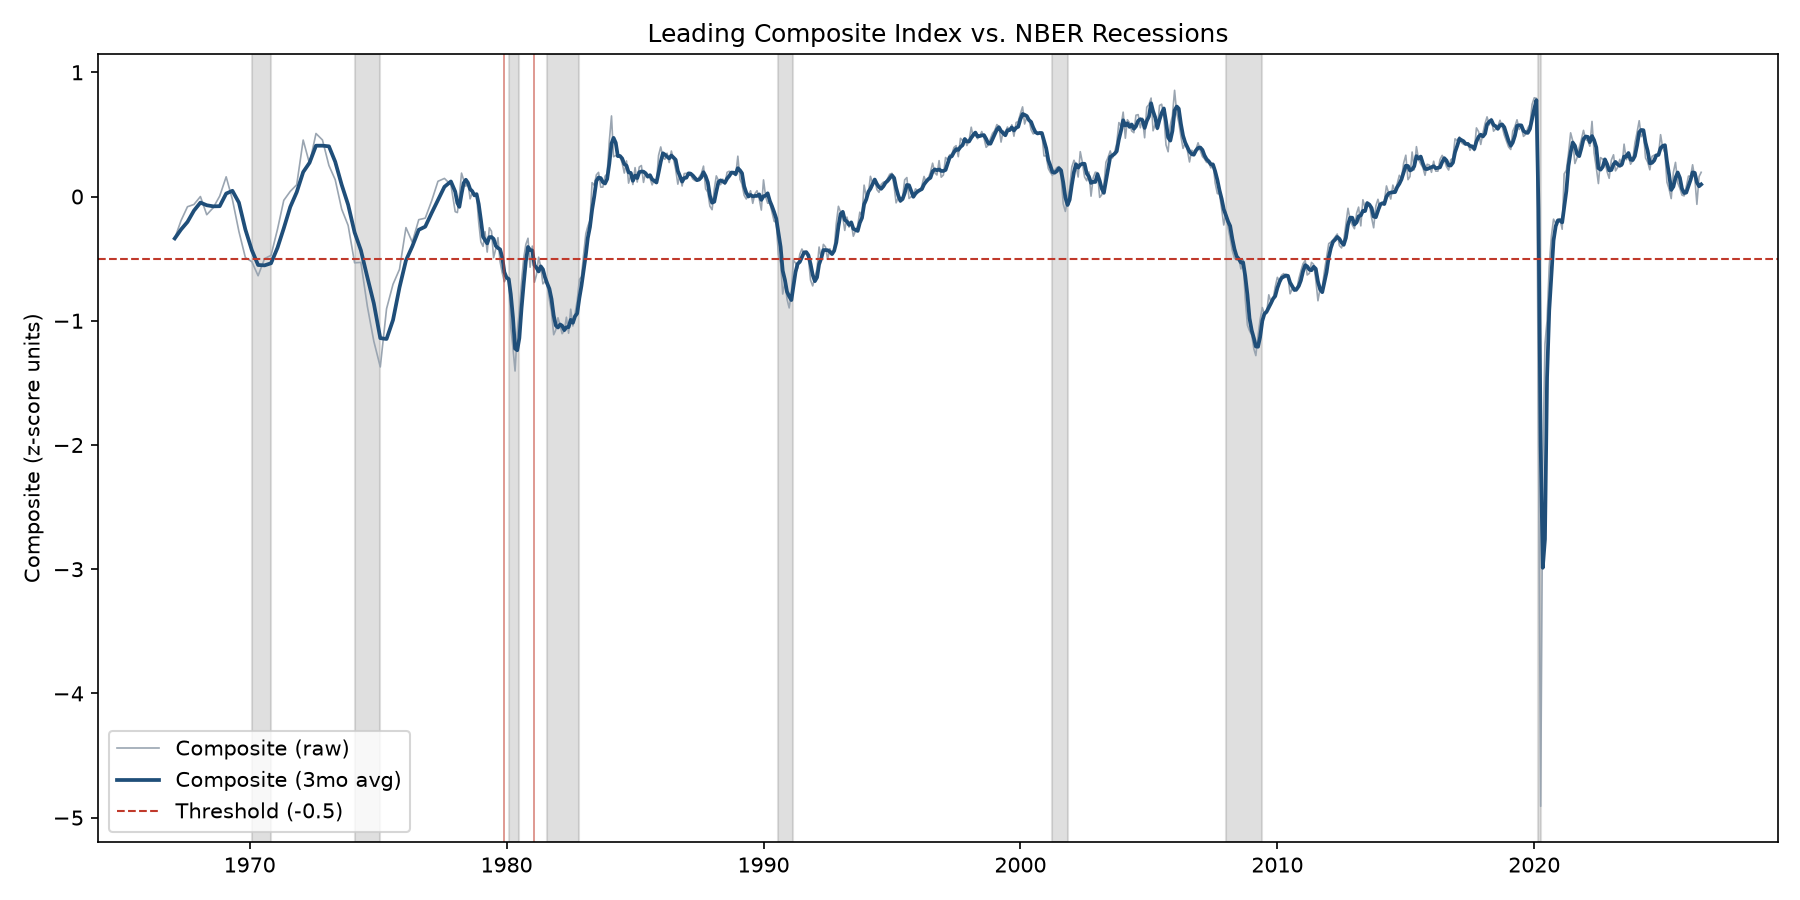
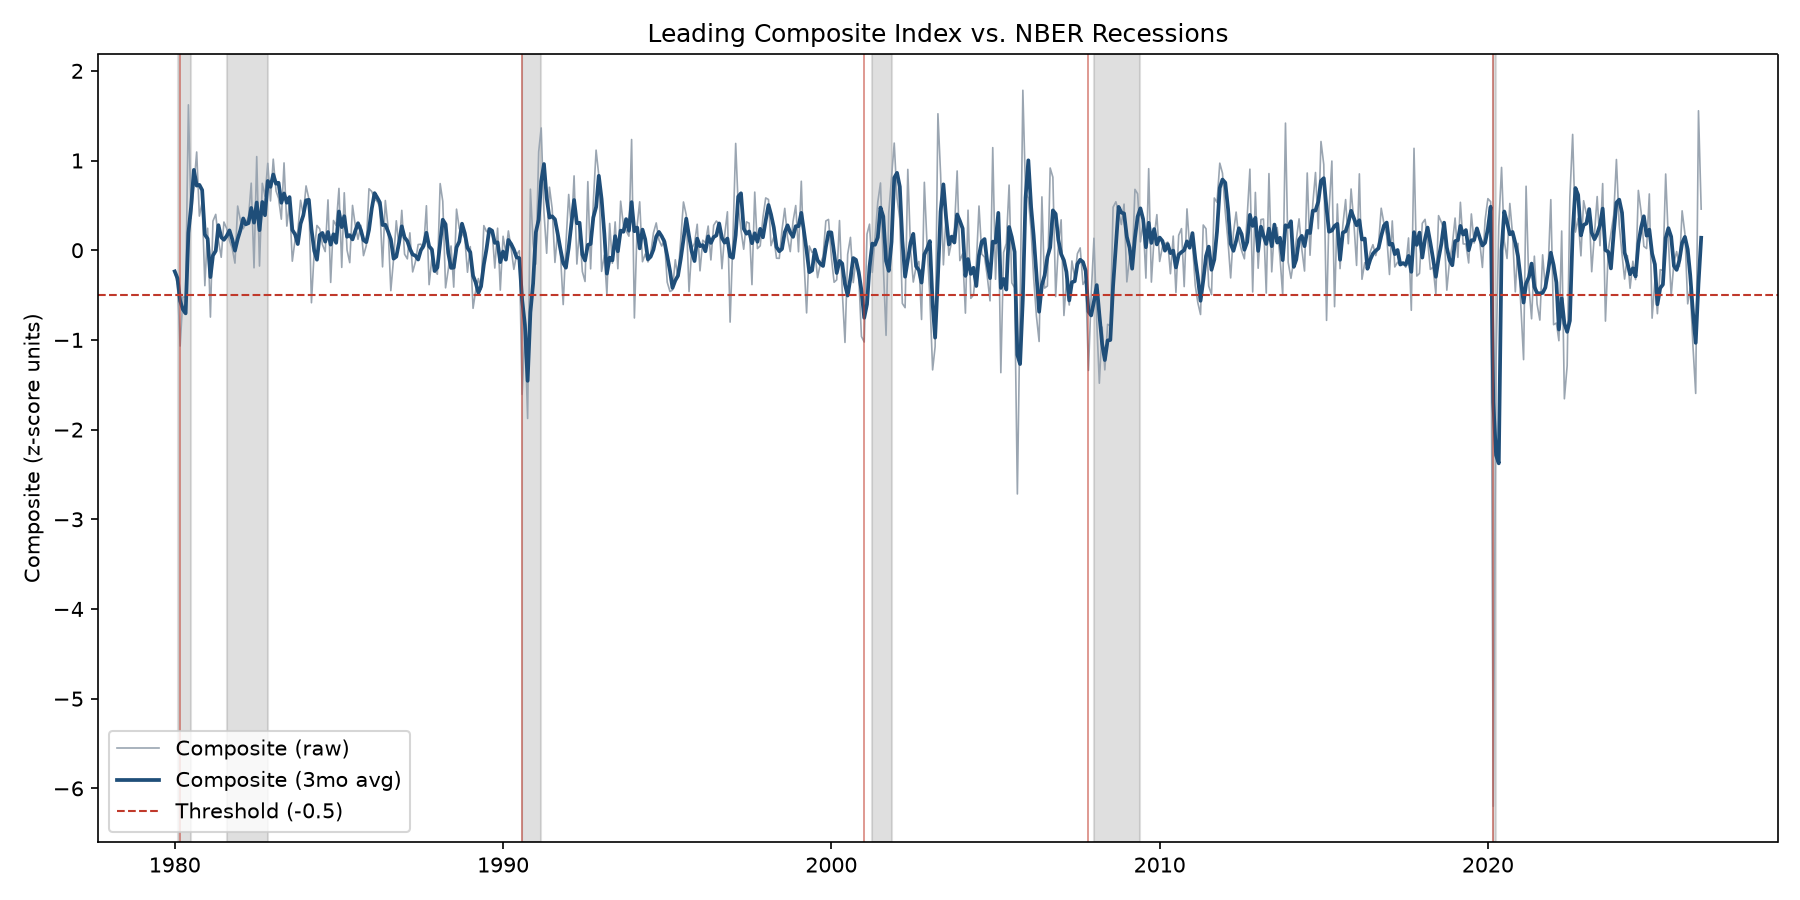
Fix index construction: change-based transform, PPI sign, walk-forward z-score

diff --git a/econ_common.py b/econ_common.py
@@ -36,7 +36,11 @@ INDICATORS = {
         "name": "Producer Price Index",
         "cls": "leading",
         "resample": "mean",
-        "invert": False,
+        # Rising producer prices are a warning sign, not good news: commodity
+        # price spikes preceded the 1974, 1980, and 2008 recessions (they're
+        # what pushes the Fed to tighten). Invert so a PPI spike pulls the
+        # composite down like the other three components.
+        "invert": True,
         "in_composite": True,
     },
     "UMCSENT": {
@@ -151,13 +155,27 @@ def zscore(s: pd.Series) -> pd.Series:
     return (s - s.mean()) / std
 
 
+def walkforward_zscore(s: pd.Series, min_periods: int = 24) -> pd.Series:
+    """Standardize each point using only the mean/std of history up to and
+    including that point (an expanding window), so scoring an early date
+    never leaks information from later in the sample the way a full-history
+    zscore does. Points before `min_periods` of history are NaN.
+    """
+    mean = s.expanding(min_periods=min_periods).mean()
+    std = s.expanding(min_periods=min_periods).std()
+    return (s - mean) / std
+
+
 def build_composite(
     components: dict[str, pd.Series],
     weights: dict[str, float] | None = None,
     invert: set[str] | frozenset[str] = frozenset(),
+    standardize=zscore,
 ) -> pd.Series:
-    """Align components on a common index, z-score each, invert sign where
-    noted, and combine with a weighted sum. Weights must sum to 1.
+    """Align components on a common index, standardize each (full-history
+    zscore by default; pass `standardize=walkforward_zscore` for a
+    backtest-safe expanding standardization), invert sign where noted, and
+    combine with a weighted sum. Weights must sum to 1.
     """
     if weights is None:
         weights = {k: 1.0 / len(components) for k in components}
@@ -170,7 +188,7 @@ def build_composite(
     if df.empty:
         raise ValueError("no overlapping dates across components")
 
-    z = df.apply(zscore)
+    z = df.apply(standardize).dropna(how="any")
     for name in invert:
         if name in z.columns:
             z[name] = -z[name]

diff --git a/tests/test_econ_common.py b/tests/test_econ_common.py
@@ -10,6 +10,7 @@ from econ_common import (
     recession_periods,
     smooth,
     to_monthly,
+    walkforward_zscore,
     zscore,
 )
 
@@ -33,6 +34,27 @@ def test_zscore_rejects_constant_series():
     s = pd.Series([5, 5, 5], dtype=float)
     with pytest.raises(ValueError):
         zscore(s)
+
+
+def test_walkforward_zscore_ignores_future_values():
+    # A large spike late in the series should not shift the standardization
+    # of points scored long before it happened.
+    idx = monthly_index("2020-01-01", 10)
+    baseline = pd.Series([1, 2, 3, 4, 1, 2, 3, 4] + [1000, 1000], index=idx, dtype=float)
+    without_spike = walkforward_zscore(baseline, min_periods=4)
+    with_bigger_spike = baseline.copy()
+    with_bigger_spike.iloc[-1] = 1_000_000
+    with_spike = walkforward_zscore(with_bigger_spike, min_periods=4)
+    # Points before the spike are computed from an expanding window that
+    # hasn't reached the spike yet, so they're identical either way.
+    assert without_spike.iloc[:8].equals(with_spike.iloc[:8])
+
+
+def test_walkforward_zscore_nan_before_min_periods():
+    s = pd.Series([1.0, 2.0, 3.0, 4.0, 5.0], index=monthly_index("2020-01-01", 5))
+    z = walkforward_zscore(s, min_periods=3)
+    assert z.iloc[:2].isna().all()
+    assert not pd.isna(z.iloc[2])
 
 
 def test_to_monthly_mean_resamples_weekly():
@@ -89,6 +111,15 @@ def test_build_composite_only_uses_overlapping_dates():
     b = pd.Series([1.0, 2.0], index=monthly_index("2020-01-01", 2))
     composite = build_composite({"a": a, "b": b})
     assert len(composite) == 2
+
+
+def test_build_composite_accepts_alternate_standardize_fn():
+    idx = monthly_index("2020-01-01", 6)
+    a = pd.Series([1.0, 2.0, 3.0, 4.0, 5.0, 6.0], index=idx)
+    composite = build_composite({"a": a}, weights={"a": 1.0}, standardize=walkforward_zscore)
+    # walkforward_zscore(min_periods=24) never has enough history in a
+    # 6-point series, so every point is dropped by the post-standardize dropna.
+    assert composite.empty
 
 
 # ---------------------------------------------------------------------------

diff --git a/02_build_index.py b/02_build_index.py
@@ -1,6 +1,7 @@
 """Align all indicators to monthly frequency, build the leading composite
-(z-scored, equally-weighted, threshold fixed a priori) and a dashboard of
-the remaining coincident/lagging indicators for context.
+(month-over-month change, walk-forward z-scored, equally-weighted, threshold
+fixed a priori) and a dashboard of the remaining coincident/lagging
+indicators for context.
 """
 import pandas as pd
 
@@ -13,6 +14,7 @@ from econ_common import (
     load_cached,
     smooth,
     to_monthly,
+    walkforward_zscore,
 )
 
 
@@ -22,10 +24,13 @@ def main() -> None:
         raw = load_cached(series_id)
         monthly[series_id] = to_monthly(raw, method=meta["resample"])
 
-    leading_components = {sid: monthly[sid] for sid in LEADING_SERIES}
+    # Level series like PPI trend for decades, which would otherwise swamp
+    # the composite with a secular ramp instead of cyclical signal. Feed the
+    # composite month-over-month % change instead, so it reflects momentum.
+    leading_components = {sid: monthly[sid].pct_change().dropna() for sid in LEADING_SERIES}
     invert = {sid for sid in LEADING_SERIES if INDICATORS[sid]["invert"]}
 
-    composite = build_composite(leading_components, COMPOSITE_WEIGHTS, invert)
+    composite = build_composite(leading_components, COMPOSITE_WEIGHTS, invert, standardize=walkforward_zscore)
     composite_smoothed = smooth(composite, window=3)
 
     DATA_PROCESSED.mkdir(parents=True, exist_ok=True)

diff --git a/README.md b/README.md
@@ -12,7 +12,7 @@ The book's list mixes indicators that sit in different places in the business cy
 |---|---|---|---|---|
 | Initial Unemployment Claims (UI) | [`ICSA`](https://fred.stlouisfed.org/series/ICSA) | Leading | ✅ (inverted) | New jobless benefit claims each week — one of the fastest-moving signals of labor market stress. |
 | Housing Starts | [`HOUST`](https://fred.stlouisfed.org/series/HOUST) | Leading | ✅ | New residential construction starts — sensitive to interest rates and confidence, moves before broader activity. |
-| Producer Price Index (PPI) | [`PPIACO`](https://fred.stlouisfed.org/series/PPIACO) | Leading | ✅ | Prices producers receive for output — feeds into future consumer prices (CPI). |
+| Producer Price Index (PPI) | [`PPIACO`](https://fred.stlouisfed.org/series/PPIACO) | Leading | ✅ (inverted) | Prices producers receive for output — feeds into future consumer prices (CPI). Rising PPI is a warning sign (it's what pushes the Fed to tighten), so it's inverted like Initial Claims. |
 | Consumer Confidence (CC) | [`UMCSENT`](https://fred.stlouisfed.org/series/UMCSENT) | Leading | ✅ | University of Michigan Consumer Sentiment. The Conference Board's own Consumer Confidence Index isn't freely available on FRED, so this widely-used free equivalent stands in for it. |
 | Job Growth | [`PAYEMS`](https://fred.stlouisfed.org/series/PAYEMS) | Coincident | Dashboard only | Total nonfarm payroll employment — confirms the cycle roughly in real time rather than ahead of it. |
 | GDP | [`GDPC1`](https://fred.stlouisfed.org/series/GDPC1) | Coincident/Lagging | Dashboard only | Real GDP — the broadest measure of output, but reported quarterly and revised after the fact. |
@@ -47,44 +47,45 @@ Note "Falling" for Initial Claims is *good* news (fewer people filing for unempl
 
 1. **Fetch** all series from FRED, caching raw pulls to `data/raw/` so reruns don't hit the API.
 2. **Align to monthly**: weekly claims are averaged per month; quarterly GDP is forward-filled; the rest are already monthly.
-3. **Normalize**: each of the 4 leading series is z-scored over its own full history. Initial Claims is inverted (rising claims is bad news, so its z-score is flipped) before combining.
-4. **Weight**: equal weight (25% each) across the 4 leading series — fixed before ever looking at backtest results, on purpose. Tuning weights against the same data used to score performance would make the backtest meaningless.
-5. **Combine**: weighted sum of z-scores, plus a 3-month moving average (the raw composite is noisy month to month).
-6. **Signal rule**: the composite crossing below **-0.5** (fixed a priori, never fit to the data) counts as a recession warning.
+3. **Transform**: each of the 4 leading series is converted to its month-over-month % change before anything else. Levels like PPI trend upward for decades, which would otherwise dominate the composite with a secular ramp instead of a cyclical signal — the change removes the trend and keeps the cycle.
+4. **Normalize**: each change series is z-scored with a **walk-forward (expanding) window** — the mean/std at any given month use only data up to and including that month, with at least 24 months of history required before a score is produced. A full-history z-score would let 1980's score be computed partly from data through 2026, which is a backtest leak; this isn't. Initial Claims and PPI are inverted (rising claims and rising producer prices are both bad news) before combining.
+5. **Weight**: equal weight (25% each) across the 4 leading series — fixed before ever looking at backtest results, on purpose. Tuning weights against the same data used to score performance would make the backtest meaningless.
+6. **Combine**: weighted sum of z-scores, plus a 3-month moving average (the raw composite is noisy month to month).
+7. **Signal rule**: the composite crossing below **-0.5** (fixed a priori, never fit to the data) counts as a recession warning.
 
 All of this lives in [`econ_common.py`](econ_common.py), covered by unit tests on synthetic data (`tests/test_econ_common.py`) — no network access required to verify the math.
 
+An earlier version of this pipeline z-scored raw levels over the full sample instead. That version scored 2/8 recessions, but the miss pattern tracked PPI's decades-long upward trend almost exactly (every miss was in the trending part of the sample) rather than anything about the economy — a methodology artifact, not a finding. See git history for the prior version if you want to compare.
+
 ## Backtest results
 
-Run against every U.S. recession from 1970 to 2020 (`python 03_backtest.py`):
+The composite needs 24 months of history to produce its first walk-forward score, and `UMCSENT` was only collected quarterly before 1978, so the composite's first valid reading is **1980-01** — it structurally cannot be scored against the 1970-02 or 1974-02 recessions, which fall before that. Run against every recession the composite can actually see (`python 03_backtest.py`):
 
 | Recession start | Signal date | Lead (months) | Caught? |
 |---|---|---|---|
-| 1970-02 | — | — | ❌ |
-| 1974-02 | — | — | ❌ |
-| 1980-02 | 1979-12 | 2 | ✅ |
-| 1981-08 | 1981-02 | 6 | ✅ |
-| 1990-08 | — | — | ❌ |
-| 2001-04 | — | — | ❌ |
-| 2008-01 | — | — | ❌ |
-| 2020-03 | — | — | ❌ |
+| 1980-02 | — | — | ❌ |
+| 1981-08 | 1980-03 | 17 | ✅ |
+| 1990-08 | 1990-08 | 0 | ✅ |
+| 2001-04 | 2001-01 | 3 | ✅ |
+| 2008-01 | 2007-11 | 2 | ✅ |
+| 2020-03 | 2020-03 | 0 | ✅ |
 
-**2/8 recessions caught**, average lead time when it did catch one: **4 months**. One false positive (a threshold crossing in **1991-11** with no recession following within 12 months).
+**5/6 recessions caught** (within the composite's coverage — 1970 and 1974 are out of reach, not misses), average lead time when it did catch one: **4.4 months**. But it also threw **8 false positives** — threshold crossings with no recession following within 12 months (2003-02, 2005-09, 2006-05, 2011-04, 2021-02, 2022-03, 2025-03, 2026-04) — against only 5 true signals, so a crossing is roughly as likely to be noise as a real warning.
 
 ![Composite index vs. NBER recessions](output/index_vs_recessions.png)
 
 ### Honest evaluation
 
-This composite is a **weak leading indicator by this backtest, not a reliable one.** It caught the early-1980s recessions (both preceded by the Fed's aggressive rate hikes, which visibly hit housing starts and sentiment ahead of time) but missed 1970, 1974, 1990, 2001, 2008, and 2020. Looking at the chart (`output/index_vs_recessions.png`), the composite often *does* dip around recessions — 1990, 2001, and 2008 all show visible drops — but the drop frequently arrives at or after the recession's official start rather than clearly ahead of it, so it doesn't register as a "hit" under this backtest's lead-time rule. A softer threshold or a shorter frequency (this analysis uses monthly resampling) would likely catch more of these at the cost of more false positives — that tradeoff is the whole reason the threshold is fixed and documented rather than tuned per-recession.
+Fixing the methodology (change instead of level, PPI's sign, walk-forward standardization — see the note above) moved the hit rate from a weak 2/8 to a strong-looking 5/6. That's not a free win, though: two of the five hits (1990 and 2020) have a **0-month lead** — the composite dropped below threshold the same month the recession started, which is a coincident confirmation, not an early warning, even though the backtest's rules count it as a hit. And the false-positive count went from 1 to 8, so the corrected index is far more trigger-happy. Read together, this composite is a **noisy leading indicator**: it does tend to dip around real recessions, often with genuine lead time (17, 3, and 2 months for 1981, 2001, and 2008), but it also dips just as often when nothing follows, and a chunk of its "hits" are same-month confirmations rather than advance warning.
 
-**2020 hold-out**: the threshold and weights were fixed using the general methodology above, without ever tuning against 2020 data. The composite **missed** the COVID recession — which makes sense in hindsight: this was a sudden external demand shock, not the kind of gradually-building imbalance (credit tightening, housing overbuilding, inventory glut) that indicators like claims, housing starts, and sentiment are built to catch ahead of time. A miss here is a legitimate finding about what this kind of index can and can't see, not a bug to paper over.
+**2020 hold-out**: the threshold and weights were fixed using the general methodology above, without ever tuning against 2020 data. The composite **caught** the COVID recession, though with 0 months of lead — it confirmed the downturn the month it started rather than anticipating it, which fits: a sudden external demand shock isn't the kind of gradually-building imbalance (credit tightening, housing overbuilding, inventory glut) these components are built to catch ahead of time.
 
 ### Limitations
 
 - Only 4 components, equally weighted — the official Conference Board LEI uses ~10 components with non-equal, empirically-derived weights (which this project deliberately avoids to keep the method transparent, at the cost of some accuracy).
-- `UMCSENT` was collected quarterly (not monthly) before 1978, so the composite has some sparse coverage in 1967-1977.
-- A -0.5 z-score threshold is one reasonable choice, not the only one; the backtest results would shift with a different threshold.
-- 8 recessions is a small sample — one or two additional hits/misses would meaningfully change the hit rate.
+- The 24-month walk-forward warm-up plus `UMCSENT`'s quarterly-before-1978 collection push the composite's usable history to 1980 onward, so it can only be scored against 6 of the 8 recessions since 1970.
+- A -0.5 z-score threshold is one reasonable choice, not the only one; the backtest results would shift with a different threshold, and a lower false-positive rate would likely need a stricter one.
+- 6 scoreable recessions is a small sample — one or two additional hits/misses would meaningfully change the hit rate.
 
 ## Setup
 
